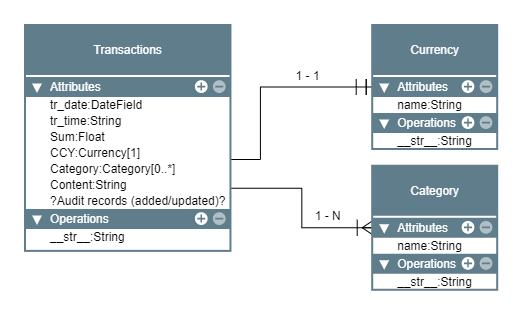
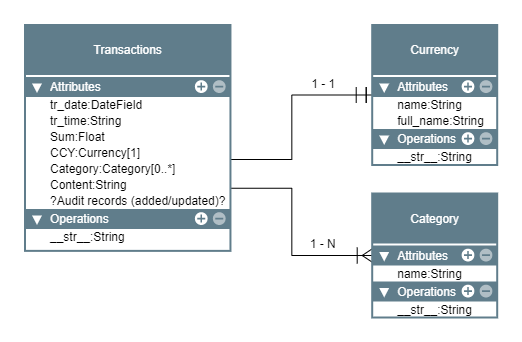
HBP: hbpsite: models updated

diff --git a/HBP/hbpsite/hbpapp/models.py b/HBP/hbpsite/hbpapp/models.py
@@ -7,3 +7,12 @@ class Category(models.Model):
     def __str__(self):
         """String for representing the Model object."""
         return self.name
+
+class CCY(models.Model):
+    """Model representing a currency."""
+    name = models.CharField(max_length=10, help_text='Enter a short name for a currency (e.g. RUB)')
+    full_name = models.CharField(max_length=200, help_text='Enter a full name for a currency (e.g. Russian ruble)')
+    
+    def __str__(self):
+        """String for representing the Model object."""
+        return '{0} ({1})'.format(self.name, self.full_name)
